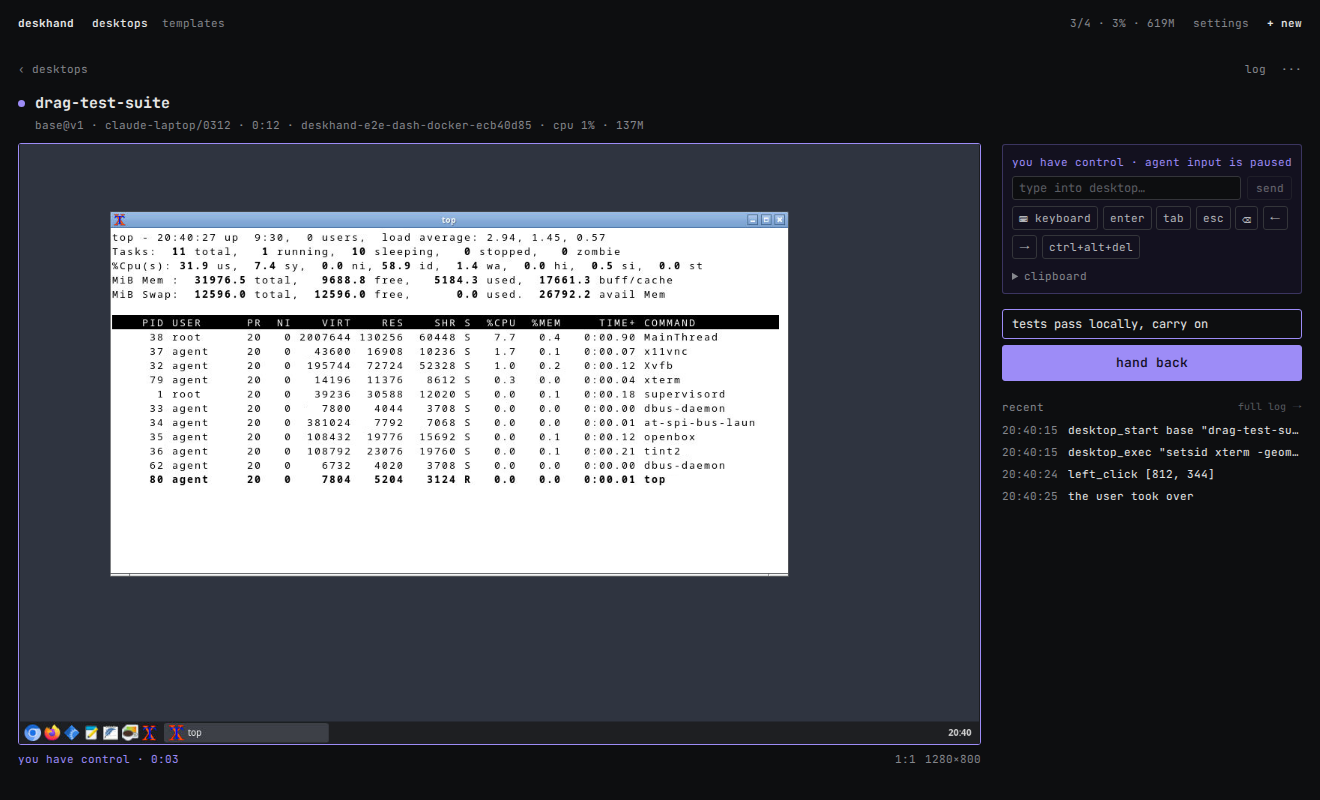
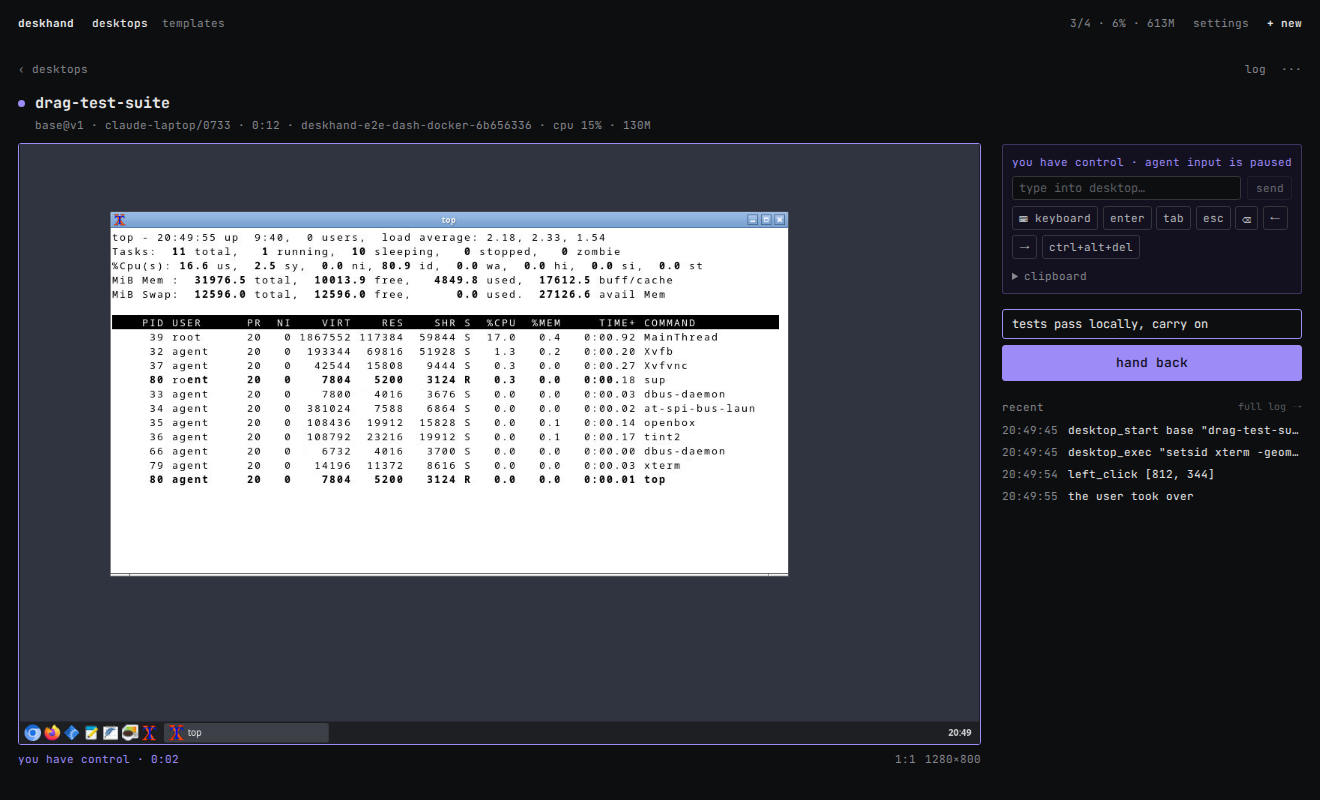
docs: phase 5 dashboard notes (API.md as wired, design.md); refreshed real screenshots

diff --git a/packages/dashboard/API.md b/packages/dashboard/API.md
@@ -34,8 +34,9 @@ Auth is the session cookie; any `401` sends the dashboard to its login page. Err
 | `POST api/desktops/:id/stop` **new** | — | `DesktopSummary` | `docker stop`, files kept; releases the lock and clears attention. |
 | `POST api/desktops/:id/start` **new** | — | `DesktopSummary` | Start a stopped desktop (status `starting`). |
 | `POST api/desktops/:id/persistent` **new** | `{ persistent: boolean }` | `DesktopSummary` | "mark persistent" toggle. |
-| `POST api/desktops/:id/lock` **new route** | `{}` | `LockResponse` = `{ generation, lock: Lock }` | Take over. Holder is `"dashboard"`. Proxies daemon `POST /lock`. `400 invalid_argument` if not running. Idempotent if already locked. |
+| `POST api/desktops/:id/lock` **new route** | `{}` | `LockResponse` = `{ generation, lock: Lock }` | Take over. Holder is `"dashboard"`. Proxies daemon `POST /lock`. `409 desktop_stopped` if not running. Idempotent if already locked. |
 | `DELETE api/desktops/:id/lock` **new route** | `{ note: string \| null }` (`UnlockRequest`) | `LockResponse` = `{ generation, lock: null }` | Hand back with optional note. The manager should also clear `attention` (the request_human call returns with the note). |
+| `DELETE api/desktops/:id/attention` | `{ note: string \| null }` | `DesktopSummary` | "dismiss" on the needs-you panel: clears a request_human flag without taking over; the agent's request_human returns "dismissed". |
 | `POST api/desktops/:id/save-as-template` **new** | `{ name: string, description: TemplateDescription }` | `{ template: TemplateSummary, version: number }` | Quiesce + commit; can take several seconds. Name `^[a-z0-9][a-z0-9-]*$`; an existing name adds a version. `400 invalid_argument` with a readable message on bad input. |
 | `POST api/desktops/:id/files` **new** | `multipart/form-data`: `path` (absolute, default `/home/agent/Downloads/<file name>`), `file` | `{ path: string, bytes: number }` | Upload; file owned by `agent`. |
 | `GET api/desktops/:id/files?path=/abs/path` **new** | — | raw bytes, `Content-Disposition: attachment; filename="<basename>"` | Download, opened as a plain link (cookie auth). |
@@ -81,6 +82,28 @@ last point; `region.region` = `[x0, y0, x1, y1]` (zoom region, any corner order)
 | `POST auth/login` | `{ token: string }` | `204` + `Set-Cookie` session (HttpOnly, SameSite=Strict, Path=base) | Login page with an API token. `401 unauthorized` with a readable message for a bad token. |
 | `GET auth/login?code=…` | — | `302` to `${base}/` + `Set-Cookie` | Login links; handled entirely server-side. |
 | `POST auth/logout-all` | — | `204` | "Sign out everywhere"; the dashboard then shows its login page. |
+
+## As wired against the real manager (phase 5)
+
+The dashboard now runs against `packages/manager` end to end (`e2e-real/`, see below). Where the manager differs
+from the tables above, the manager wins and the mock mirrors it:
+
+- `POST api/desktops` answers `201` while the desktop is still `starting`.
+- Anything that needs a running desktop (lock, files, screenshots) answers `409 desktop_stopped` when it isn't.
+- A dead login link (`GET auth/login?code=…`) redirects to `${base}/?login=expired` (`missing` without a code): the
+  login page explains it, or — already signed in — a toast says the session is still valid.
+- Templates (phase 4): `PUT api/templates/:name/recipe {recipe}` (recipe editor), `POST api/templates/:name/rebuild`
+  (rebuild button; waits for the new version), save-as-template takes `confirm_description: true` instead of a
+  description for a new version ("keep the current description") and returns `notes`; `TemplateVersion.changes` is
+  preferred over the client-side diff. `GET api/templates/:name/diff` exists but the page doesn't need it.
+- `LogEntry.session` is the session label (`token/abcd`), like `DesktopSummary.session`.
+- Fake runtime only: `GET api/desktops/:id/fake-inputs` (what reached a fake desktop, incl. VNC input that got
+  through the filter) for the e2e suite.
+
+Tests: `pnpm e2e` (mock), `pnpm e2e:real` (real manager, `DESKHAND_RUNTIME=fake`), `pnpm e2e:docker` (real manager +
+`deskhand-desktop:dev` desktops, needs `DEV_DOCKER=1`); `SCREENSHOTS=1 pnpm e2e:docker screenshots` refreshes
+`screenshots/real/`. Run them in the Playwright image:
+`DEV_DOCKER=1 DEV_IMAGE=mcr.microsoft.com/playwright:v1.64.1-noble scripts/dev pnpm --filter @deskhand/dashboard e2e:docker`.
 
 ## Suggested additions to `packages/shared`
 

diff --git a/docs/design.md b/docs/design.md
@@ -219,6 +219,32 @@ Runtime interface: `imageInfo`, `exec`, `writeFile`, `copyFromImage`; `removeIma
   attention = amber, running = green, you have control = violet, stopped = grey, starting = blue.
 - Thumbnails: `GET ${base}/api/desktops/:id/thumbnail` (WebP, scaled) refreshed every 1–2 s, not VNC.
 
+### Dashboard as built against the real manager (phase 5)
+
+- **Live view:** view mode is noVNC `viewOnly` with pointer events passed through to the page (scroll/pinch the page
+  on phones); the daemon drops any input that still arrives (verified in e2e with a raw-RFB client from the page).
+  Take over → reconnect with `mode=control&generation=<lock.generation>`; hand back → view mode. A dropped
+  connection refetches the desktop (to pick up a new generation) and reconnects with backoff 0.5 s → 10 s, reset on
+  connect. "1:1" switches to `clipViewport` + `dragViewport` (drag pans, tap still clicks) without reconnecting.
+  Touch in control mode is noVNC's gesture model (tap = click, long press = right click, drag, two-finger scroll).
+  Keyboard on phones: the "type into desktop" box, plus "⌨ keyboard", which focuses a hidden textarea and forwards
+  each key (a one-character sentinel makes Android backspace visible). Clipboard both ways via noVNC's cut-text
+  events, only while in control (the daemon filters ClientCutText otherwise).
+- **Takeover UX:** a lock held ≥ 30 min shows "hand back?" on the tile and "agent waiting" on the desktop page; it is
+  never released automatically. request_human: amber tile + banner with "times out in" from `attention.timeoutAt`,
+  "take over →" from the banner, "dismiss" (`DELETE …/attention`).
+- **Action log:** `zoom` stores the full screen as its log screenshot (it stored the zoomed crop before), so every
+  overlay is in screen coordinates over a full-screen image (`viewBox = DesktopSummary.screen`); no extra size field
+  was needed. `LogEntry.session` is the session label.
+- **Fake runtime:** the fake daemon speaks minimal RFB 3.8 (security None, raw frames of the fake screen) and applies
+  the same view/control/generation rule, so the dashboard's live view and its e2e suite run without Docker;
+  `GET /api/desktops/:id/fake-inputs` exists only with `DESKHAND_RUNTIME=fake`; `DESKHAND_FAKE_LOCK_WAIT_MS`.
+- **E2E against the real manager:** `packages/dashboard/playwright.real.config.ts` builds the dashboard and manager,
+  starts the manager on a fresh data dir (port 17620 fake / 17621 docker, base `/deskhand`), logs in with login links
+  made by the admin credential, and plays the agent with an MCP SDK client. Docker mode labels everything
+  `owner=deskhand-dev` with its own instance, network and prefix, and removes desktops, `e2e-*` templates and the
+  network in its teardown.
+
 ## Dev and test
 
 - `scripts/dev` runs Node commands in a container (no Node on the host). Dev images are tagged `:dev`.
